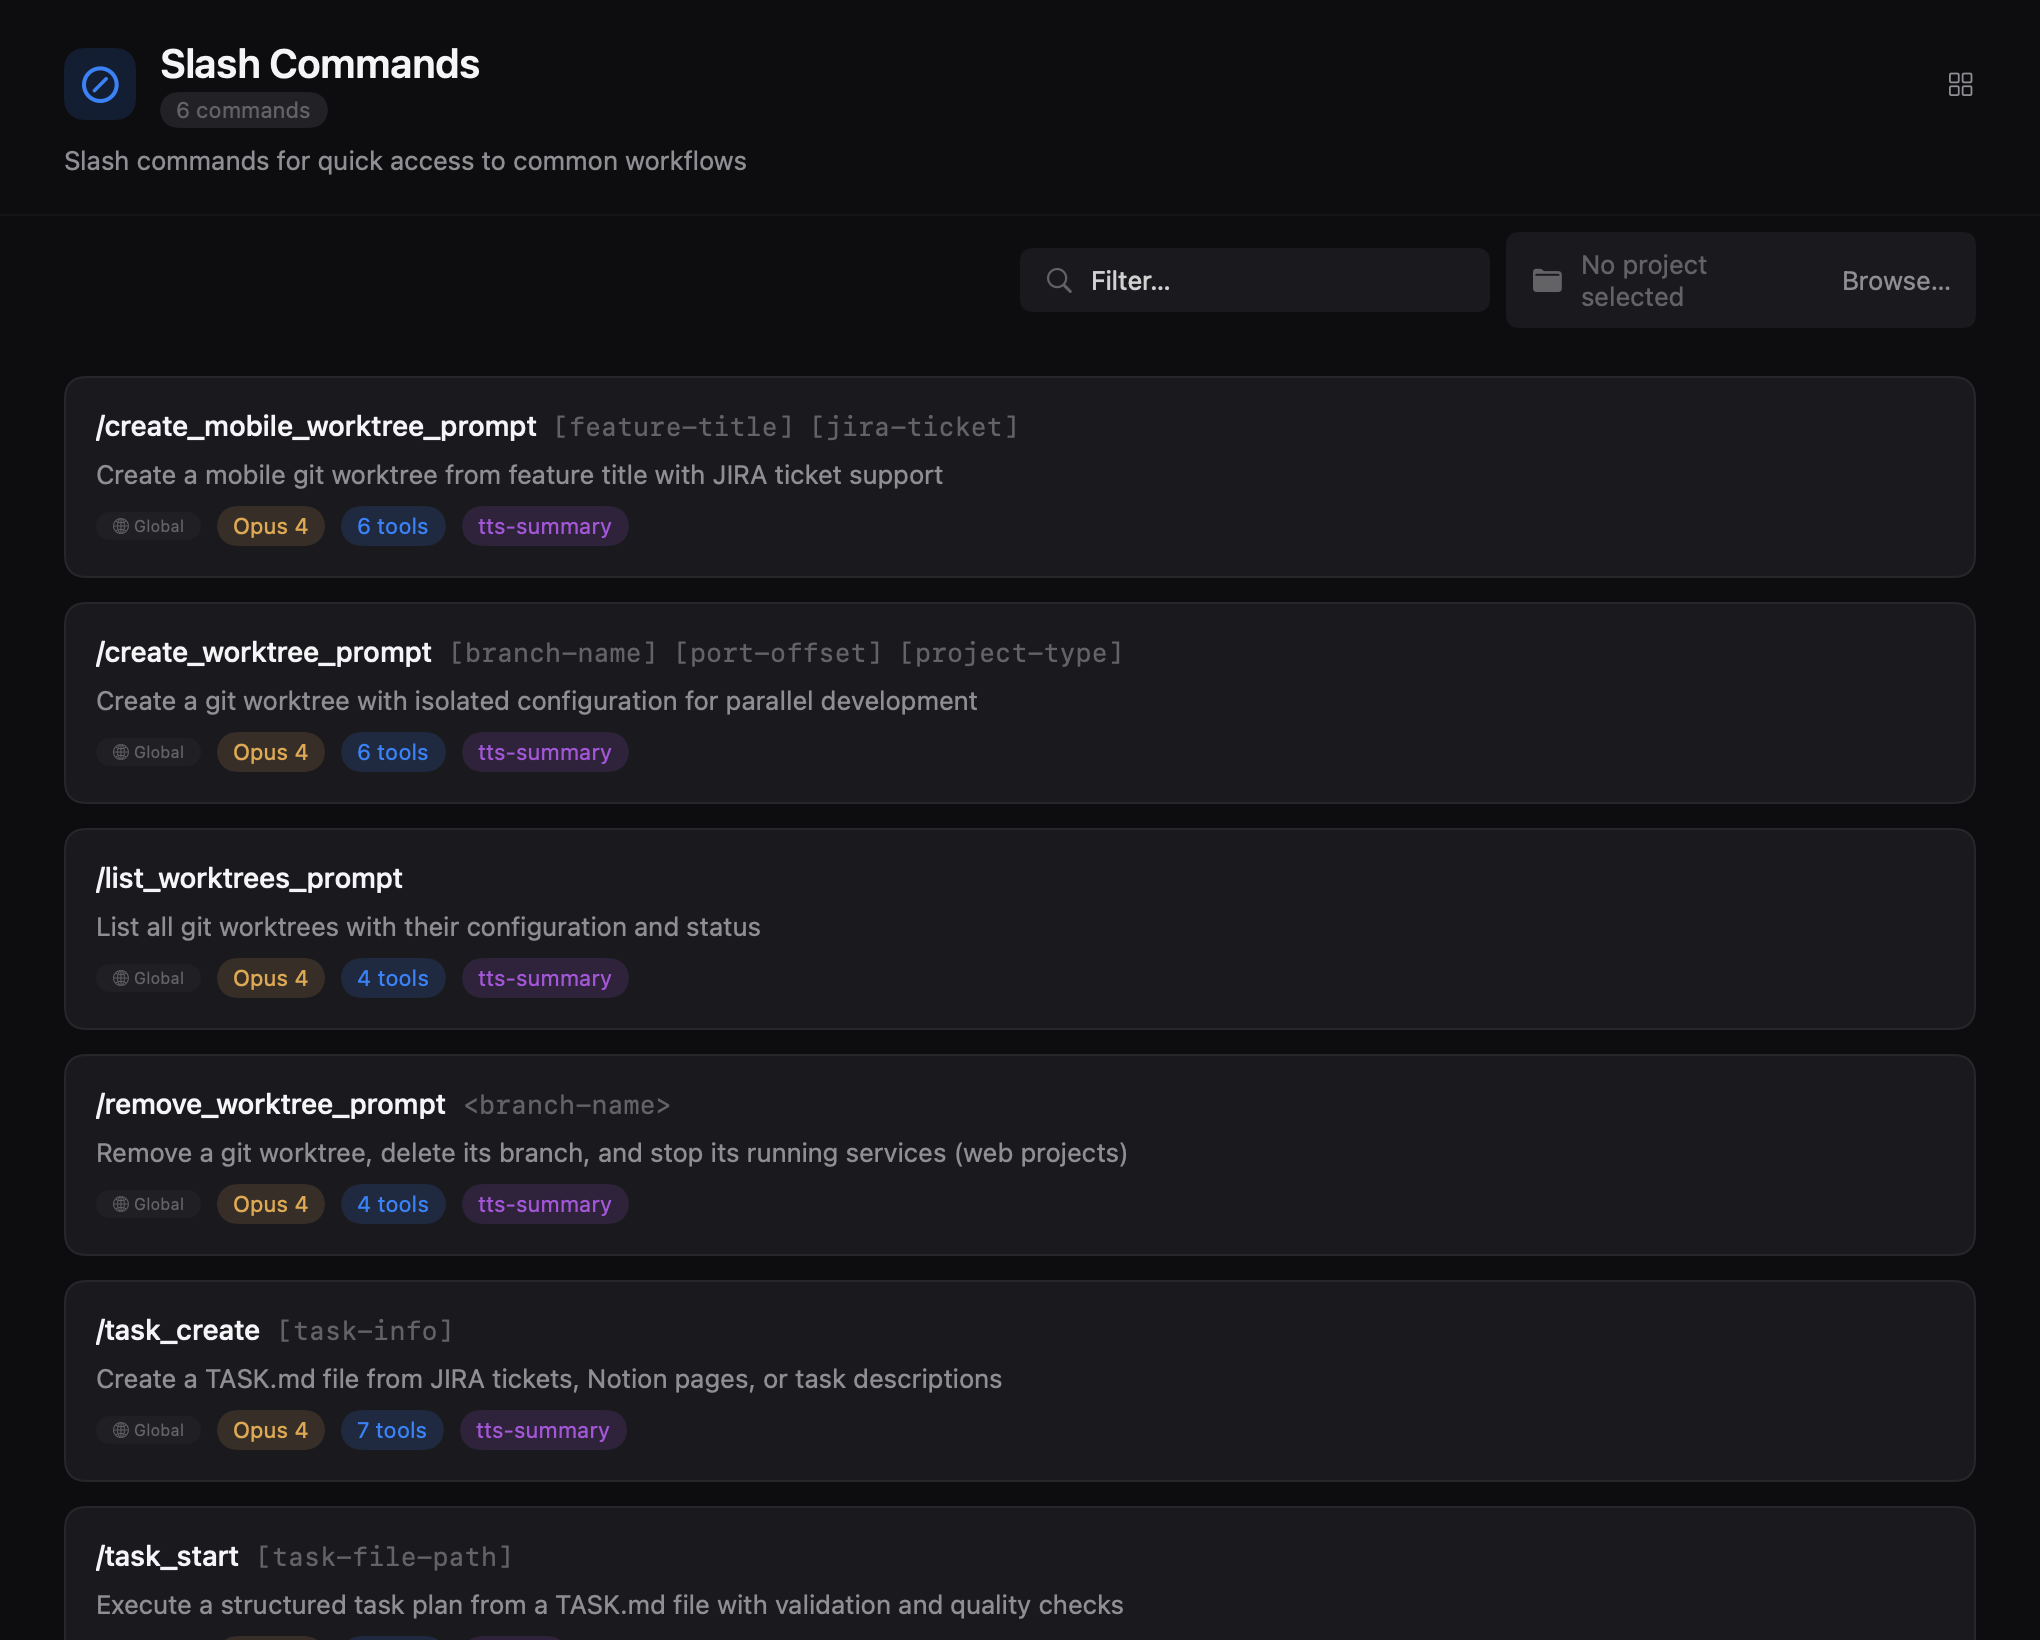
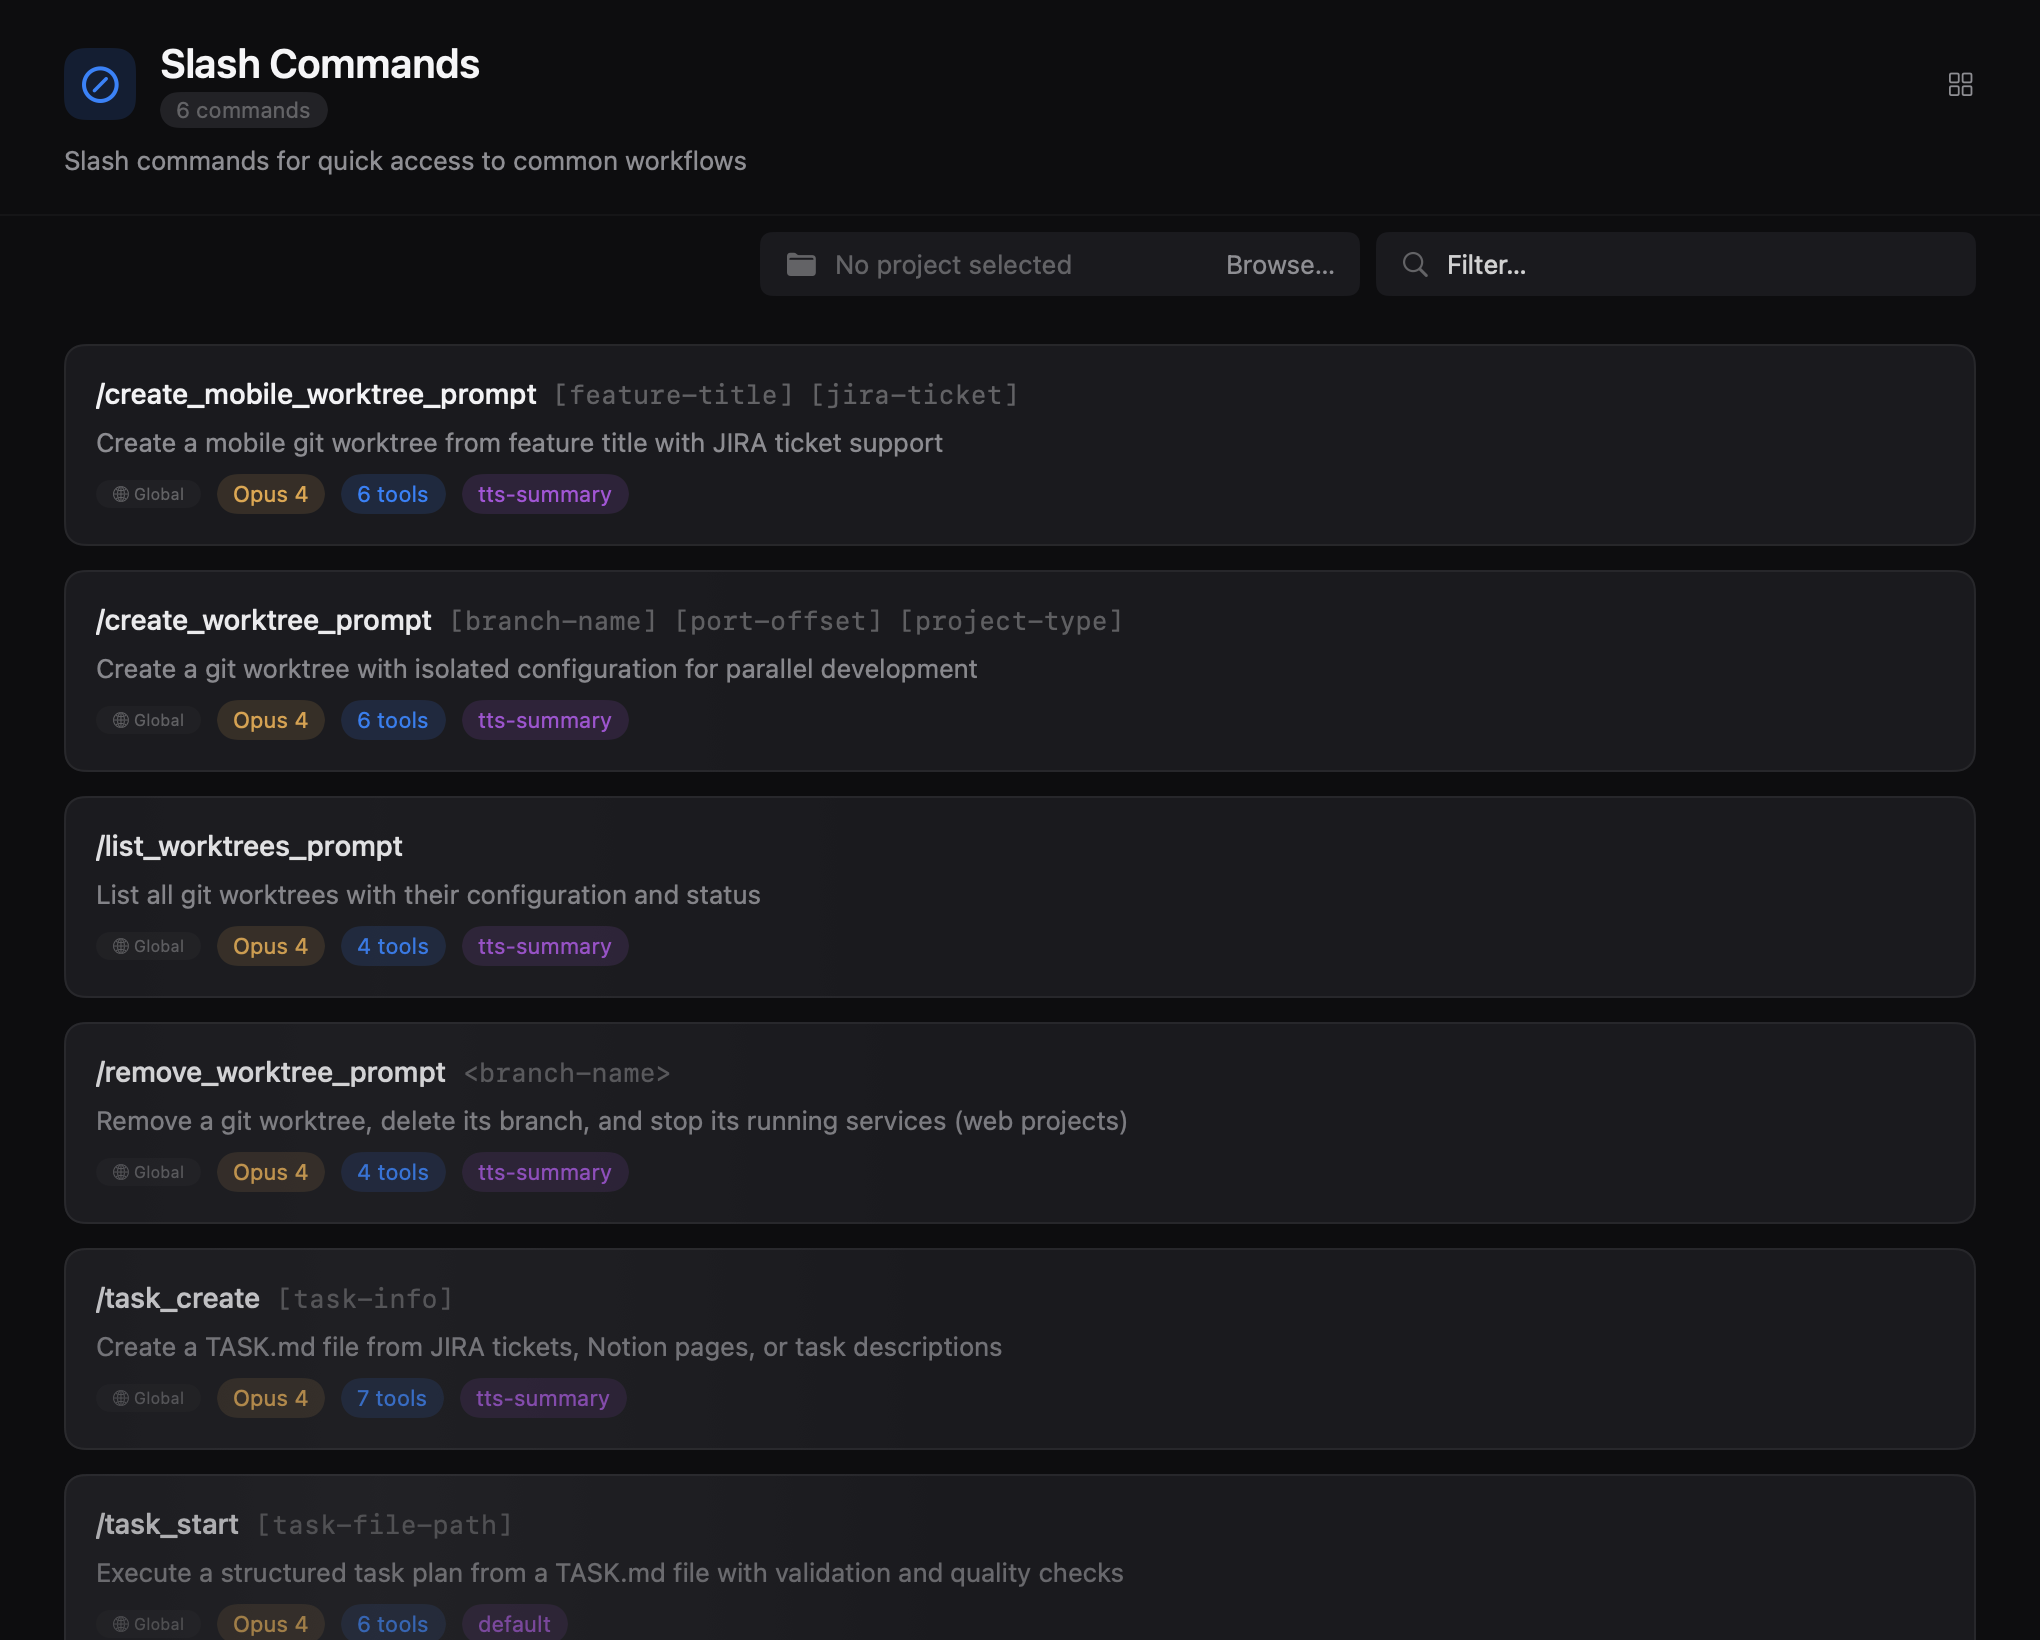
Add filter text highlighting and fix card padding alignment

diff --git a/Poirot/Sources/Views/Project/ProjectSessionsView.swift b/Poirot/Sources/Views/Project/ProjectSessionsView.swift
@@ -6,14 +6,53 @@ struct ProjectSessionsView: View {
     private var appState
     @State
     private var isRevealed = false
+    @State
+    private var filterQuery = ""
+
+    private var filteredSessions: [Session] {
+        let q = filterQuery.trimmingCharacters(in: .whitespaces)
+        guard !q.isEmpty else { return project.sessions }
+        return project.sessions
+            .compactMap { session -> (Session, Int)? in
+                let best = max(
+                    HighlightedText.fuzzyMatch(session.title, query: q)?.score ?? 0,
+                    HighlightedText.fuzzyMatch(session.preview ?? "", query: q)?.score ?? 0
+                )
+                return best > 0 ? (session, best) : nil
+            }
+            .sorted { $0.1 > $1.1 }
+            .map(\.0)
+    }
 
     var body: some View {
         VStack(alignment: .leading, spacing: 0) {
             header
-            sessionsContent
+
+            if !project.sessions.isEmpty {
+                HStack(spacing: 0) {
+                    Spacer().frame(maxWidth: .infinity)
+                    Spacer().frame(maxWidth: .infinity)
+                    Spacer().frame(maxWidth: .infinity)
+                    ConfigFilterField(searchQuery: $filterQuery)
+                        .frame(minWidth: 300, maxWidth: .infinity)
+                }
+                .padding(.horizontal, PoirotTheme.Spacing.xxl)
+                .padding(.vertical, PoirotTheme.Spacing.sm)
+            }
+
+            if filteredSessions.isEmpty, !filterQuery.isEmpty {
+                ConfigEmptyState(
+                    icon: "magnifyingglass",
+                    message: "No sessions match \"\(filterQuery)\"",
+                    hint: "Try a different search term"
+                )
+            } else {
+                sessionsContent
+            }
         }
         .background(PoirotTheme.Colors.bgApp)
         .task(id: project.id) {
+            filterQuery = ""
             isRevealed = false
             try? await Task.sleep(for: .milliseconds(50))
             withAnimation(.easeOut(duration: 0.4)) {
@@ -79,7 +118,7 @@ struct ProjectSessionsView: View {
                 ForEach(0 ..< 2, id: \.self) { column in
                     LazyVStack(spacing: PoirotTheme.Spacing.lg) {
                         ForEach(sessionsForColumn(column), id: \.element.id) { index, session in
-                            SessionCard(session: session)
+                            SessionCard(session: session, filterQuery: filterQuery)
                                 .shimmerReveal(
                                     isRevealed: isRevealed,
                                     delay: Double(min(index, 7)) * 0.04,
@@ -96,7 +135,7 @@ struct ProjectSessionsView: View {
     }
 
     private func sessionsForColumn(_ column: Int) -> [(offset: Int, element: Session)] {
-        Array(project.sessions.enumerated()).filter { $0.offset % 2 == column }
+        Array(filteredSessions.enumerated()).filter { $0.offset % 2 == column }
     }
 
     // MARK: - List
@@ -104,8 +143,8 @@ struct ProjectSessionsView: View {
     private var sessionsList: some View {
         ScrollView {
             LazyVStack(alignment: .leading, spacing: PoirotTheme.Spacing.md) {
-                ForEach(Array(project.sessions.enumerated()), id: \.element.id) { index, session in
-                    SessionListRow(session: session)
+                ForEach(Array(filteredSessions.enumerated()), id: \.element.id) { index, session in
+                    SessionListRow(session: session, filterQuery: filterQuery)
                         .shimmerReveal(
                             isRevealed: isRevealed,
                             delay: Double(min(index, 9)) * 0.03,
@@ -124,6 +163,7 @@ struct ProjectSessionsView: View {
 
 private struct SessionCard: View {
     let session: Session
+    var filterQuery: String = ""
     @Environment(AppState.self)
     private var appState
     @State
@@ -138,14 +178,14 @@ private struct SessionCard: View {
             appState.selectedSession = session
         } label: {
             VStack(alignment: .leading, spacing: PoirotTheme.Spacing.sm) {
-                Text(session.title)
+                Text(HighlightedText.fuzzyAttributedString(session.title, query: filterQuery))
                     .font(PoirotTheme.Typography.bodyMedium)
                     .foregroundStyle(PoirotTheme.Colors.textPrimary)
                     .lineLimit(2)
                     .multilineTextAlignment(.leading)
 
                 if let preview = session.preview {
-                    Text(preview)
+                    Text(HighlightedText.fuzzyAttributedString(preview, query: filterQuery))
                         .font(PoirotTheme.Typography.caption)
                         .foregroundStyle(PoirotTheme.Colors.textSecondary)
                         .lineLimit(4)
@@ -168,6 +208,7 @@ private struct SessionCard: View {
 
 private struct SessionListRow: View {
     let session: Session
+    var filterQuery: String = ""
     @Environment(AppState.self)
     private var appState
     @State
@@ -182,13 +223,13 @@ private struct SessionListRow: View {
             appState.selectedSession = session
         } label: {
             VStack(alignment: .leading, spacing: PoirotTheme.Spacing.sm) {
-                Text(session.title)
+                Text(HighlightedText.fuzzyAttributedString(session.title, query: filterQuery))
                     .font(PoirotTheme.Typography.bodyMedium)
                     .foregroundStyle(PoirotTheme.Colors.textPrimary)
                     .lineLimit(1)
 
                 if let preview = session.preview {
-                    Text(preview)
+                    Text(HighlightedText.fuzzyAttributedString(preview, query: filterQuery))
                         .font(PoirotTheme.Typography.caption)
                         .foregroundStyle(PoirotTheme.Colors.textSecondary)
                         .lineLimit(2)

diff --git a/Poirot/Sources/Views/Config/ModelsListView.swift b/Poirot/Sources/Views/Config/ModelsListView.swift
@@ -70,9 +70,9 @@ struct ModelsListView: View {
             Spacer()
                 .frame(maxWidth: .infinity)
             HStack(spacing: PoirotTheme.Spacing.sm) {
-                ConfigFilterField(searchQuery: $filterQuery)
-                    .frame(minWidth: 300, maxWidth: .infinity)
                 ConfigProjectPicker()
+                    .frame(minWidth: 300, maxWidth: .infinity)
+                ConfigFilterField(searchQuery: $filterQuery)
                     .frame(minWidth: 300, maxWidth: .infinity)
             }
             .frame(maxWidth: .infinity)
@@ -139,6 +139,7 @@ struct ModelsListView: View {
                     ForEach(Array(filteredModels.enumerated()), id: \.element) { index, model in
                         ModelCard(
                             name: model,
+                            filterQuery: filterQuery,
                             isDefault: model == (currentDefault ?? provider.defaultModelName),
                             isProjectDefault: model == projectModel,
                             hasProject: appState.configProjectPath != nil,

diff --git a/Poirot/Sources/Views/Config/MCPServersListView.swift b/Poirot/Sources/Views/Config/MCPServersListView.swift
@@ -93,9 +93,9 @@ struct MCPServersListView: View {
             Spacer()
                 .frame(maxWidth: .infinity)
             HStack(spacing: PoirotTheme.Spacing.sm) {
-                ConfigFilterField(searchQuery: $filterQuery)
-                    .frame(minWidth: 300, maxWidth: .infinity)
                 ConfigProjectPicker()
+                    .frame(minWidth: 300, maxWidth: .infinity)
+                ConfigFilterField(searchQuery: $filterQuery)
                     .frame(minWidth: 300, maxWidth: .infinity)
             }
             .frame(maxWidth: .infinity)
@@ -159,6 +159,7 @@ struct MCPServersListView: View {
                     ForEach(Array(filteredServers.enumerated()), id: \.element.id) { index, server in
                         MCPServerCard(
                             server: server,
+                            filterQuery: filterQuery,
                             onOpenInEditor: { openServerInEditor(server) },
                             onShowInFinder: { showSettingsInFinder() },
                             onRemove: { removeServer(server) }

diff --git a/Poirot/Sources/Views/Config/CommandsListView.swift b/Poirot/Sources/Views/Config/CommandsListView.swift
@@ -175,9 +175,9 @@ struct CommandsListView: View {
             Spacer()
                 .frame(maxWidth: .infinity)
             HStack(spacing: PoirotTheme.Spacing.sm) {
-                ConfigFilterField(searchQuery: $filterQuery)
-                    .frame(minWidth: 300, maxWidth: .infinity)
                 ConfigProjectPicker()
+                    .frame(minWidth: 300, maxWidth: .infinity)
+                ConfigFilterField(searchQuery: $filterQuery)
                     .frame(minWidth: 300, maxWidth: .infinity)
             }
             .frame(maxWidth: .infinity)
@@ -228,7 +228,7 @@ struct CommandsListView: View {
         ScrollView {
             LazyVStack(spacing: PoirotTheme.Spacing.md) {
                 ForEach(Array(filteredCommands.enumerated()), id: \.element.id) { index, command in
-                    CommandCard(command: command) {
+                    CommandCard(command: command, filterQuery: filterQuery) {
                         selectCommand(command)
                     }
                     .shimmerReveal(

diff --git a/Poirot/Sources/Views/Config/OutputStylesListView.swift b/Poirot/Sources/Views/Config/OutputStylesListView.swift
@@ -161,9 +161,9 @@ struct OutputStylesListView: View {
             Spacer()
                 .frame(maxWidth: .infinity)
             HStack(spacing: PoirotTheme.Spacing.sm) {
-                ConfigFilterField(searchQuery: $filterQuery)
-                    .frame(minWidth: 300, maxWidth: .infinity)
                 ConfigProjectPicker()
+                    .frame(minWidth: 300, maxWidth: .infinity)
+                ConfigFilterField(searchQuery: $filterQuery)
                     .frame(minWidth: 300, maxWidth: .infinity)
             }
             .frame(maxWidth: .infinity)
@@ -214,7 +214,7 @@ struct OutputStylesListView: View {
         ScrollView {
             LazyVStack(spacing: PoirotTheme.Spacing.md) {
                 ForEach(Array(filteredStyles.enumerated()), id: \.element.id) { index, style in
-                    OutputStyleCard(style: style) {
+                    OutputStyleCard(style: style, filterQuery: filterQuery) {
                         selectStyle(style)
                     }
                     .shimmerReveal(

diff --git a/Poirot/Sources/Views/Config/SkillsListView.swift b/Poirot/Sources/Views/Config/SkillsListView.swift
@@ -163,9 +163,9 @@ struct SkillsListView: View {
             Spacer()
                 .frame(maxWidth: .infinity)
             HStack(spacing: PoirotTheme.Spacing.sm) {
-                ConfigFilterField(searchQuery: $filterQuery)
-                    .frame(minWidth: 300, maxWidth: .infinity)
                 ConfigProjectPicker()
+                    .frame(minWidth: 300, maxWidth: .infinity)
+                ConfigFilterField(searchQuery: $filterQuery)
                     .frame(minWidth: 300, maxWidth: .infinity)
             }
             .frame(maxWidth: .infinity)
@@ -216,7 +216,7 @@ struct SkillsListView: View {
         ScrollView {
             LazyVStack(spacing: PoirotTheme.Spacing.md) {
                 ForEach(Array(filteredSkills.enumerated()), id: \.element.id) { index, skill in
-                    SkillCard(skill: skill) {
+                    SkillCard(skill: skill, filterQuery: filterQuery) {
                         selectSkill(skill)
                     }
                     .shimmerReveal(

diff --git a/Poirot/Sources/Views/Config/SubAgentsListView.swift b/Poirot/Sources/Views/Config/SubAgentsListView.swift
@@ -113,7 +113,7 @@ struct SubAgentsListView: View {
 
                 LazyVStack(spacing: PoirotTheme.Spacing.md) {
                     ForEach(Array(filteredAgents.enumerated()), id: \.element.id) { index, agent in
-                        SubAgentCard(agent: agent)
+                        SubAgentCard(agent: agent, filterQuery: filterQuery)
                             .shimmerReveal(
                                 isRevealed: isRevealed,
                                 delay: Double(min(index, 9)) * 0.03,

diff --git a/Poirot/Sources/Views/Config/PluginsListView.swift b/Poirot/Sources/Views/Config/PluginsListView.swift
@@ -141,6 +141,7 @@ struct PluginsListView: View {
                     ForEach(Array(filteredPlugins.enumerated()), id: \.element.id) { index, plugin in
                         PluginCard(
                             plugin: plugin,
+                            filterQuery: filterQuery,
                             onToggle: { togglePlugin(plugin) },
                             onRemove: { removePlugin(plugin) }
                         )
